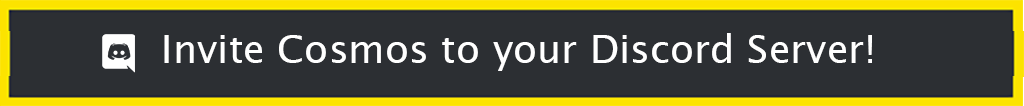
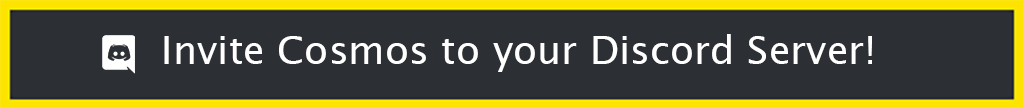
Fix Image

diff --git a/docs/README.md b/docs/README.md
@@ -17,7 +17,7 @@ It is an opensource project actively being developed updated frequently with add
 
 ## Getting Started
 
-[![](.gitbook/assets/invite-banner%20%282%29.png)](https://discordapp.com/oauth2/authorize?client_id=390176338729893889&scope=bot&permissions=8)
+[![](.gitbook/assets/invite-banner.png)](https://discordapp.com/oauth2/authorize?client_id=390176338729893889&scope=bot&permissions=8)
 
 Go through the above link to invite the Cosmos hosted by us to your server. The actual invite URL of Cosmos bot with default administrator permissions is:  
 `https://discordapp.com/oauth2/authorize?client_id=390176338729893889&scope=bot&permissions=8`
